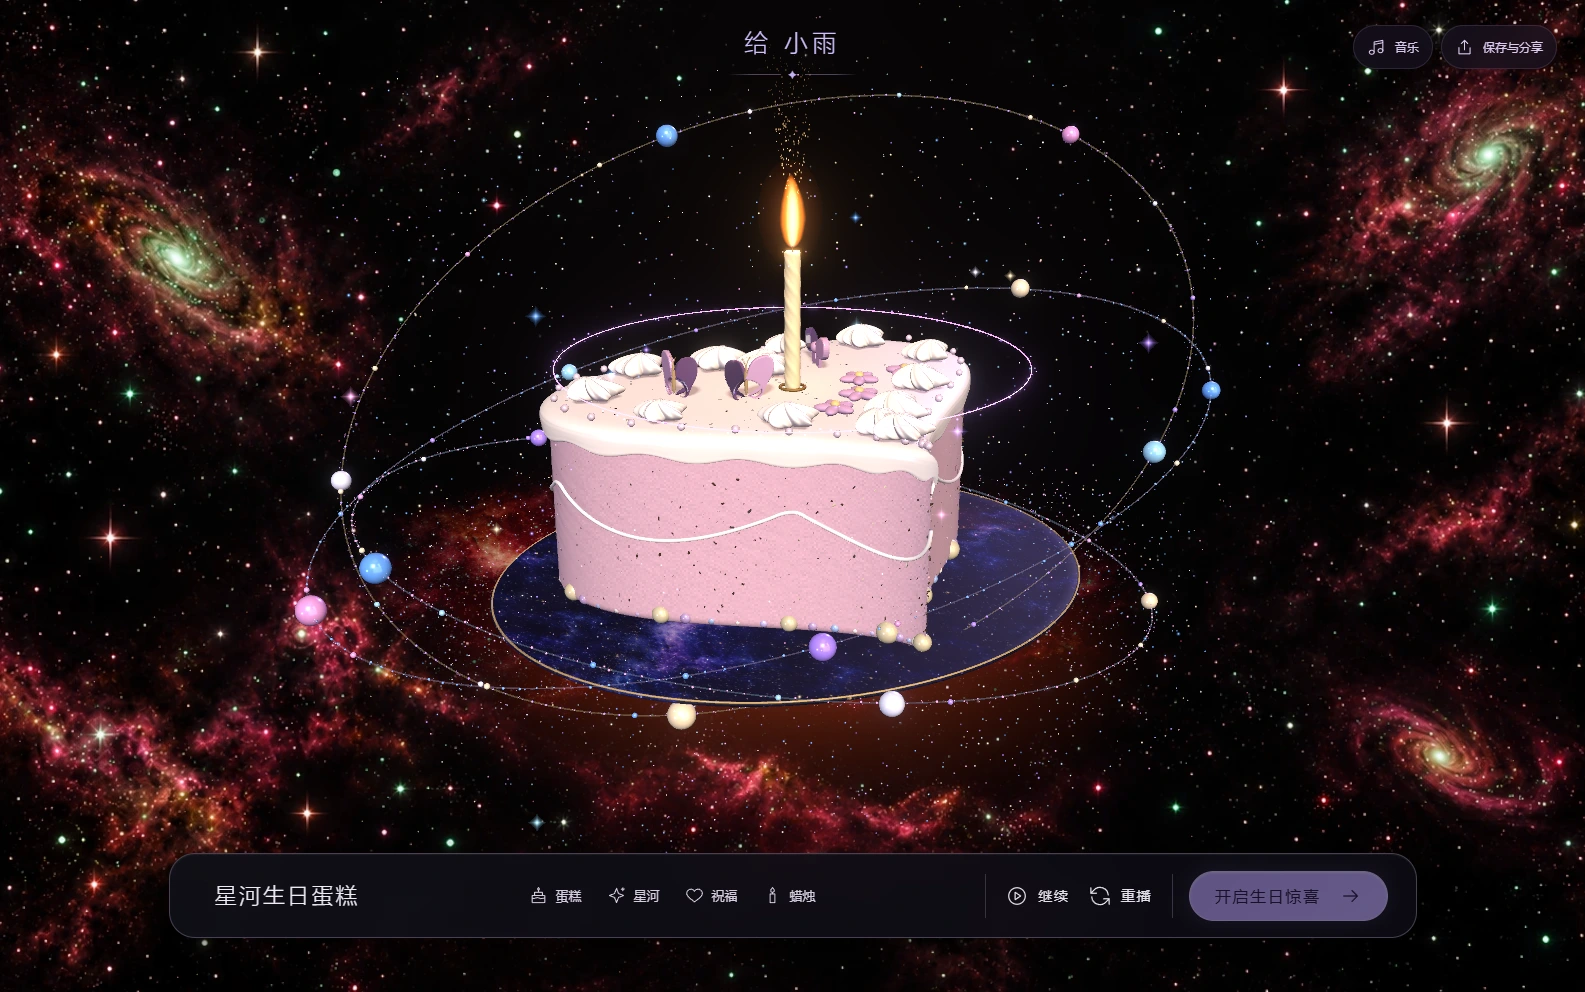
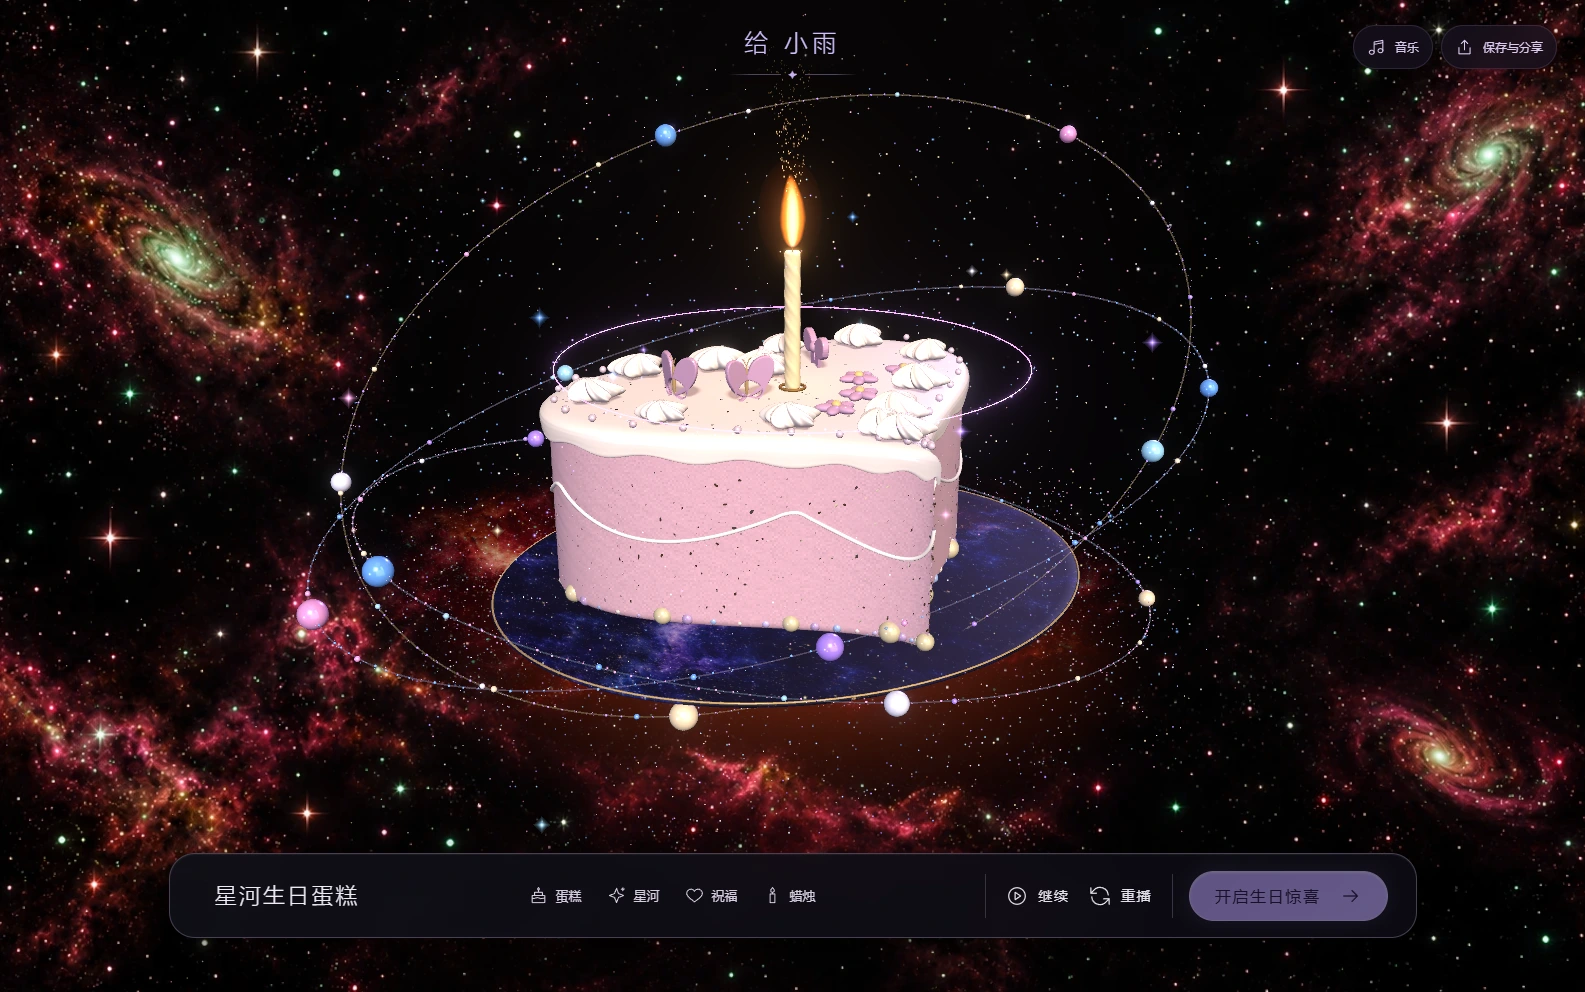
Correct mirrored decoration faces and verify angled views

diff --git a/galaxy-cake/src/three/decorationModels.ts b/galaxy-cake/src/three/decorationModels.ts
@@ -2,6 +2,7 @@ import { BoxGeometry, BufferGeometry, CatmullRomCurve3, ExtrudeGeometry, Icosahe
 import { mergeGeometries } from 'three/examples/jsm/utils/BufferGeometryUtils.js'
 import { heartShape, starShape } from '../utils/ornaments'
 import type { DecorationType } from '../store/decorationCatalog'
+import type { BufferAttribute } from 'three'
 export interface DecorationPart { geometry:BufferGeometry; color:string; accent?:boolean; metalness?:number; roughness?:number }
 const cache=new Map<DecorationType,DecorationPart[]>() // At most 16 model definitions.
 function merge(list:BufferGeometry[]) {
@@ -12,6 +13,16 @@ function sphere(x:number,y:number,z:number,sx:number,sy=sx,sz=sx){return new Sph
 function extrude(shape:Shape,depth=.035){return new ExtrudeGeometry(shape,{depth,bevelEnabled:true,bevelSize:.008,bevelThickness:.008,bevelSegments:3,curveSegments:20,steps:1}).translate(0,0,-depth/2)}
 function tube(points:Vector3[],radius=.008){return new TubeGeometry(new CatmullRomCurve3(points),28,radius,7,false)}
 function rectangle(w:number,h:number){const s=new Shape();s.moveTo(-w/2,0);s.lineTo(w/2,0);s.lineTo(w/2,h);s.lineTo(-w/2,h);s.closePath();return s}
+/** Mirroring vertices reverses handedness; restore winding to match the normals. */
+function mirrorX(g:BufferGeometry) {
+  g.scale(-1,1,1)
+  if(g.index){for(let i=0;i<g.index.count;i+=3){const b=g.index.getX(i+1);g.index.setX(i+1,g.index.getX(i+2));g.index.setX(i+2,b)}}
+  else for(const attribute of Object.values(g.attributes)){
+    const a=attribute as BufferAttribute
+    for(let i=0;i<a.count;i+=3)for(let k=0;k<a.itemSize;k++){const b=(i+1)*a.itemSize+k,c=(i+2)*a.itemSize+k,value=a.array[b];a.array[b]=a.array[c];a.array[c]=value}
+  }
+  return g
+}
 export function getDecorationModel(type:DecorationType):DecorationPart[] {
   const existing=cache.get(type);if(existing)return existing
   const parts:DecorationPart[]=[],add=(g:BufferGeometry,color:string,accent=false,metalness=0,roughness=.36)=>parts.push({geometry:g,color,accent,metalness,roughness})
@@ -45,11 +56,11 @@ export function getDecorationModel(type:DecorationType):DecorationPart[] {
     add(sphere(0,.045,0,.028,.022,.028),'#eac77b')
   } else if(type==='butterfly') {
     const wing=new Shape();wing.moveTo(0,0);wing.bezierCurveTo(.16,.03,.2,.24,.1,.22);wing.bezierCurveTo(.02,.21,.02,.13,0,.1);wing.bezierCurveTo(.1,.09,.13,-.01,.05,-.02);wing.closePath()
-    add(merge([extrude(wing,.012).rotateY(-.3),extrude(wing,.012).scale(-1,1,1).rotateY(.3)]),'#dcb7ec',true,.06,.3)
+    add(merge([extrude(wing,.012).rotateY(-.3),mirrorX(extrude(wing,.012)).rotateY(.3)]),'#dcb7ec',true,.06,.3)
     add(merge([sphere(0,.09,0,.012,.09,.012),tube([new Vector3(0,.17,0),new Vector3(.018,.21,0),new Vector3(.03,.22,0)],.003),tube([new Vector3(0,.17,0),new Vector3(-.018,.21,0),new Vector3(-.03,.22,0)],.003)]),'#bb945e')
   } else if(type==='bow') {
     const loop=new Shape();loop.moveTo(0,.1);loop.bezierCurveTo(.1,.23,.22,.2,.17,.09);loop.bezierCurveTo(.12,.03,.05,.08,0,.1)
-    add(merge([extrude(loop,.025),extrude(loop,.025).scale(-1,1,1),new BoxGeometry(.065,.095,.02).rotateZ(.25).translate(-.04,.04,0),new BoxGeometry(.065,.095,.02).rotateZ(-.25).translate(.04,.04,0),sphere(0,.105,.012,.035,.035,.03)]),'#d59ab8',true,0,.32)
+    add(merge([extrude(loop,.025),mirrorX(extrude(loop,.025)),new BoxGeometry(.065,.095,.02).rotateZ(.25).translate(-.04,.04,0),new BoxGeometry(.065,.095,.02).rotateZ(-.25).translate(.04,.04,0),sphere(0,.105,.012,.035,.035,.03)]),'#d59ab8',true,0,.32)
   } else if(type==='crescent') {
     const moon=new Shape();moon.moveTo(.08,.6);moon.bezierCurveTo(-.38,.58,-.38,.06,.08,.04);moon.bezierCurveTo(-.1,.2,-.1,.44,.08,.6)
     add(merge([extrude(moon,.04).translate(.08,.06,0),new BoxGeometry(.012,.14,.012).translate(0,.07,0)]),'#e7c77d',true,.72,.23)

diff --git a/docs/cake-catalog.md b/docs/cake-catalog.md
@@ -41,14 +41,14 @@
 
 ## 实际验收
 
-生产构建通过，入口 `index-Bg4PyZ4_.js`。生产预览 `http://localhost:4174/`，开发地址 `http://localhost:5173/`；验收期间保持产物不变。沿用前端测试与 React 最佳实践技能；Browser plugin 不可用且 IAB 此前连接超时，采用现有隔离 Playwright 与本机 Chrome，无新增测试依赖。
+生产构建通过。完整回归使用 `index-Bg4PyZ4_.js`；随后修复镜像蝶翼和缎结的三角面绕序，最新构建为 `index-6ZRYGbWs.js`，完成数据／几何重验及专门的正面、斜侧、背面复验。生产预览 `http://localhost:4174/`，开发地址 `http://localhost:5173/`；各轮验收期间保持对应产物不变。沿用前端测试与 React 最佳实践技能；Browser plugin 不可用且 IAB 此前连接超时，采用现有隔离 Playwright 与本机 Chrome，无新增测试依赖。
 
 - [数据与几何专项](qa-cake-catalog-20261105/data-results.json)：5 项，12 款默认配件、16 类有限实体几何、位置确定性、逐层避让／数字蜡烛、旧字段兼容及无效输入规范化。
 - [目录与混搭专项](qa-cake-catalog-20261105/browser-results.json)：11 项，12 款正面／斜侧、16 类实际选择、混搭上限、大件替换、点缀色／疏密／随机、撤销重做、刷新、3200px 导出、只读观看、三手机尺寸、低档及真实录屏。
 - [逐层编辑回归](qa-cake-catalog-20261105/layer-regression/results.json)：13 项，包括暂停编辑、层级删改、颜色像素、历史、火焰、许愿吹灭、重播和手机面板。
 - [爱心开场回归](qa-cake-catalog-20261105/heart-regression/results.json)：7 项通过，包含共同入口与三张卡片的连续绕行跟踪。
 
-以上共 **36 项通过**，均使用同一份最终生产构建，无运行时 console error 或 pageerror。仓库保留本轮款式／混搭截图与实际录屏、全部专项结果；重复回归截图另外留本机存档，原有已提交历史证据不删除。
+以上共 **36 项通过**。最新镜像面修复后，数据与几何 5 项再次通过，增加逐三角面几何朝向检查；[模型旋转专项](qa-cake-catalog-20261105/face-results.json) 3 项通过，并更新花园正面／斜侧截图，保留背面、单独蝴蝶与蝴蝶结截图。完整 36 项没有在这次只改模型绕序后全部重跑，不把两轮构建混写成同一版本。各轮均无运行时 console error 或 pageerror。仓库保留本轮款式／混搭截图与实际录屏、全部专项结果；重复回归截图另外留本机存档，原有已提交历史证据不删除。
 
 另在本机 5173 的开发环境 Strict Mode 实测手机选款、清空和皇冠／草莓／珍珠混搭，配置与渲染正常，无 pageerror。
 

diff --git a/docs/CONTINUE-HERE.md b/docs/CONTINUE-HERE.md
@@ -1,5 +1,9 @@
 # 换电脑继续：先读这里
 
+## 2026-11-05 仓库同步状态
+
+GitHub `main` 已恢复正常推送：`c2804ce` 已包含动态变色星空、连续祝福队列和 12 款／16 类装饰扩充；后续提交修正镜像蝶翼与缎结的面朝向并补充旋转复验。历史文档中的“main 更新失败”仅是当时记录，不代表当前代码仍未上传。接续时先保存本机改动，在仓库根目录 `git pull --ff-only`，进入 `galaxy-cake` 后执行 `pnpm install --frozen-lockfile`、`pnpm dev`。固定使用 pnpm 11.25.0。
+
 ## 2026-11-05 最新：12 款蛋糕与 16 类可混搭装饰
 
 已扩充七款甜品／梦幻蛋糕，现共 12 款；装饰与款式解耦，16 类实体配件可逐层混搭，每层最多三类，顶层大件互相替换。提供疏密、点缀色、随机搭配与清空，自动避开蜡烛、奶油花及上层糕体。保留三种形状／三层上限、合拢编辑、低矮奶油花、动态爱心开场和变色星空。先读 [cake-catalog.md](cake-catalog.md) 的实现、数据兼容、真实截图和验收范围。
